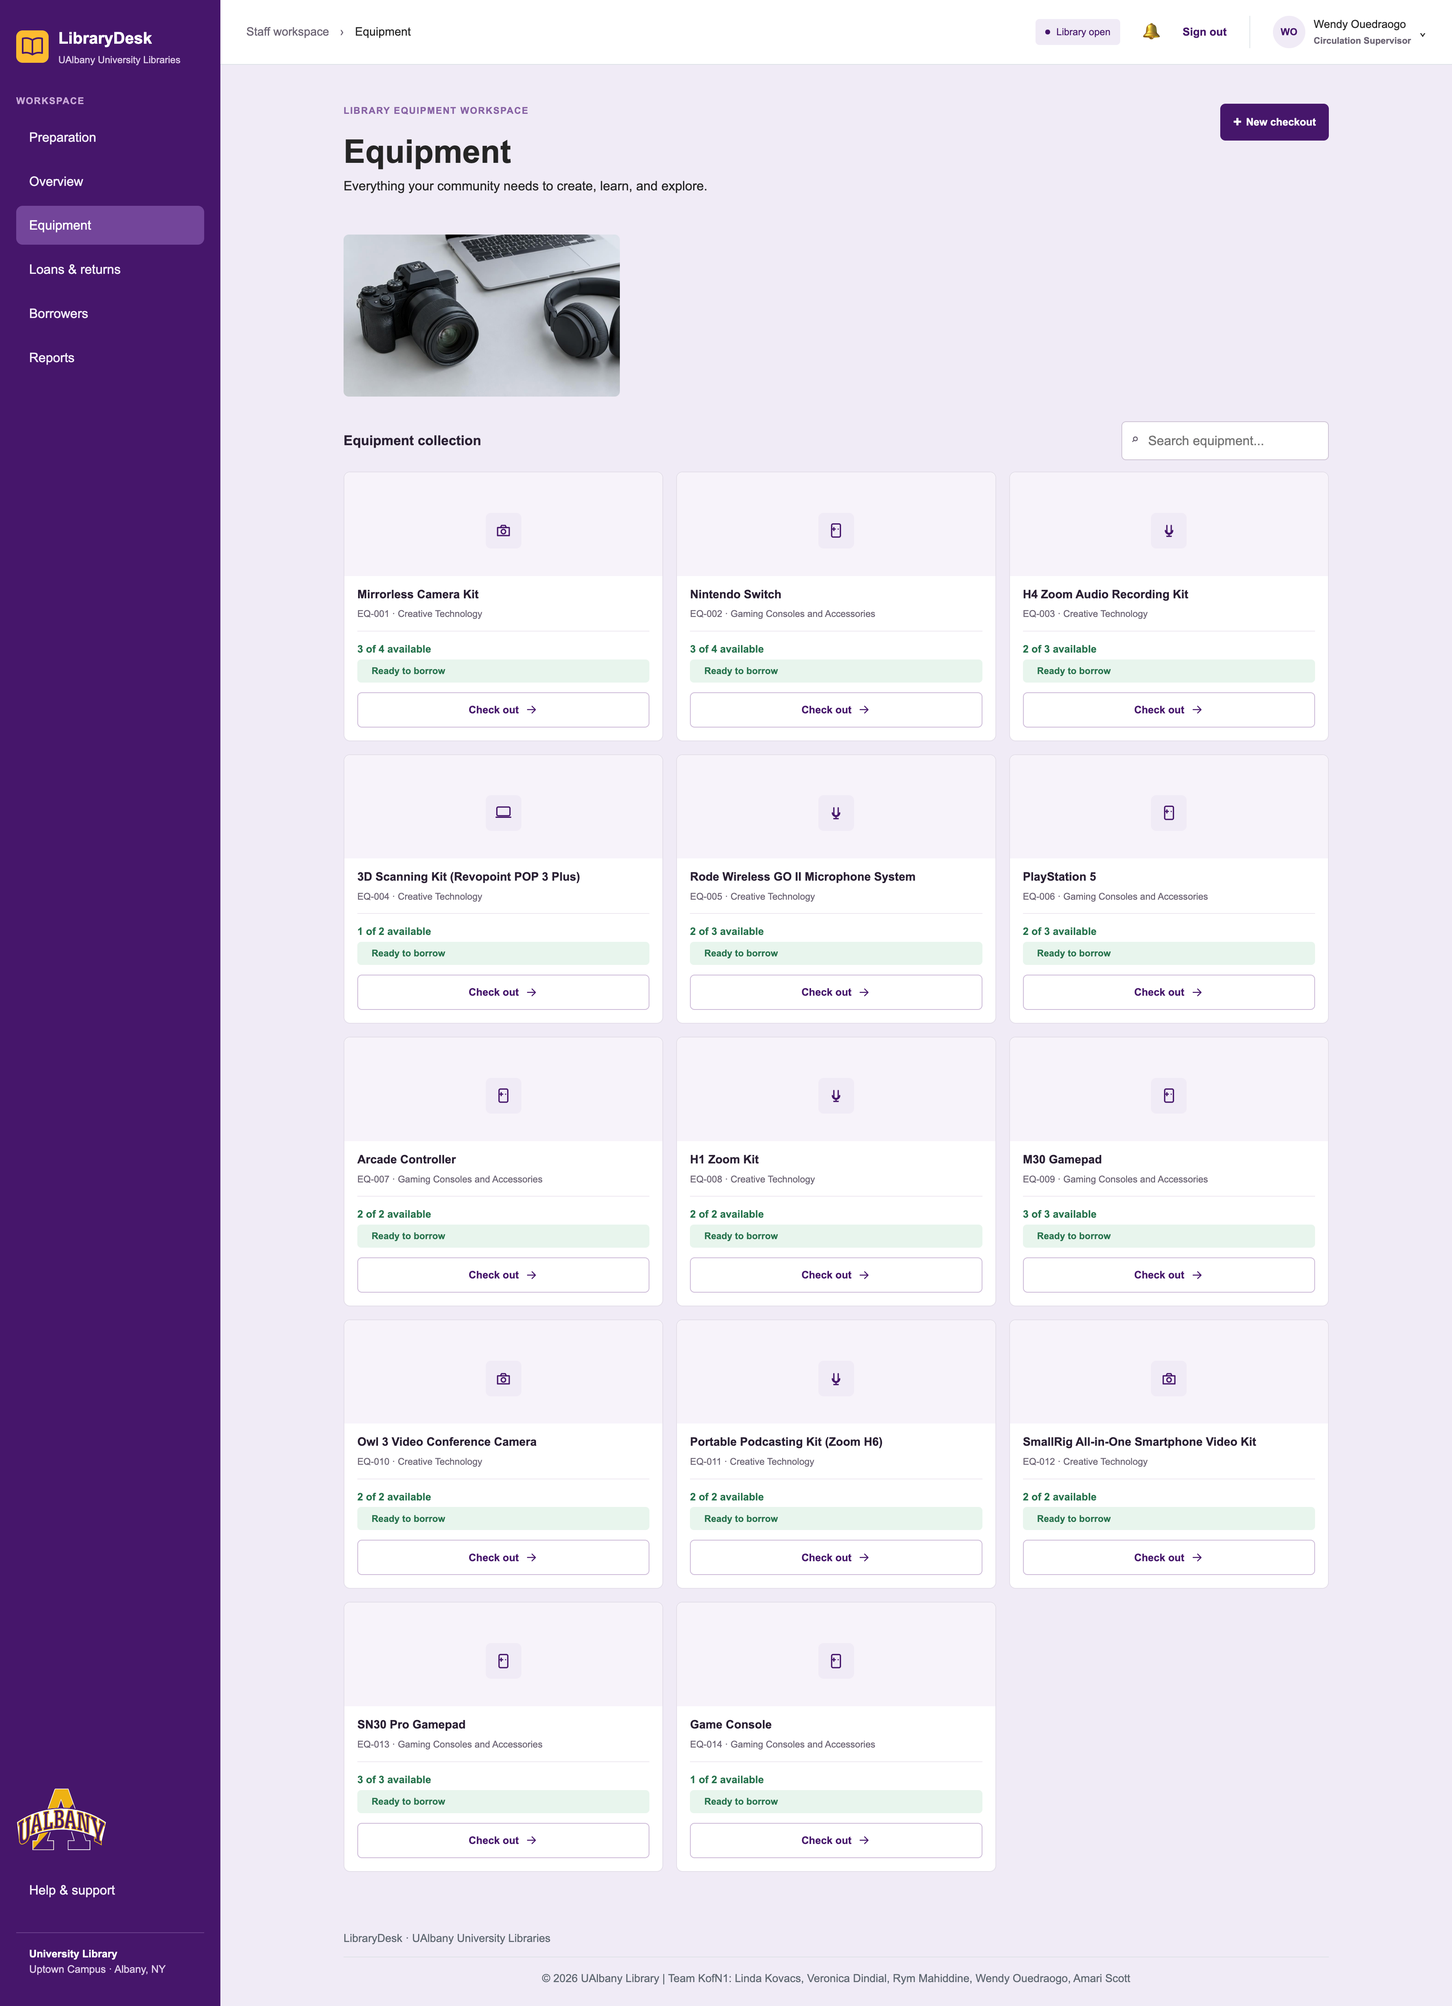
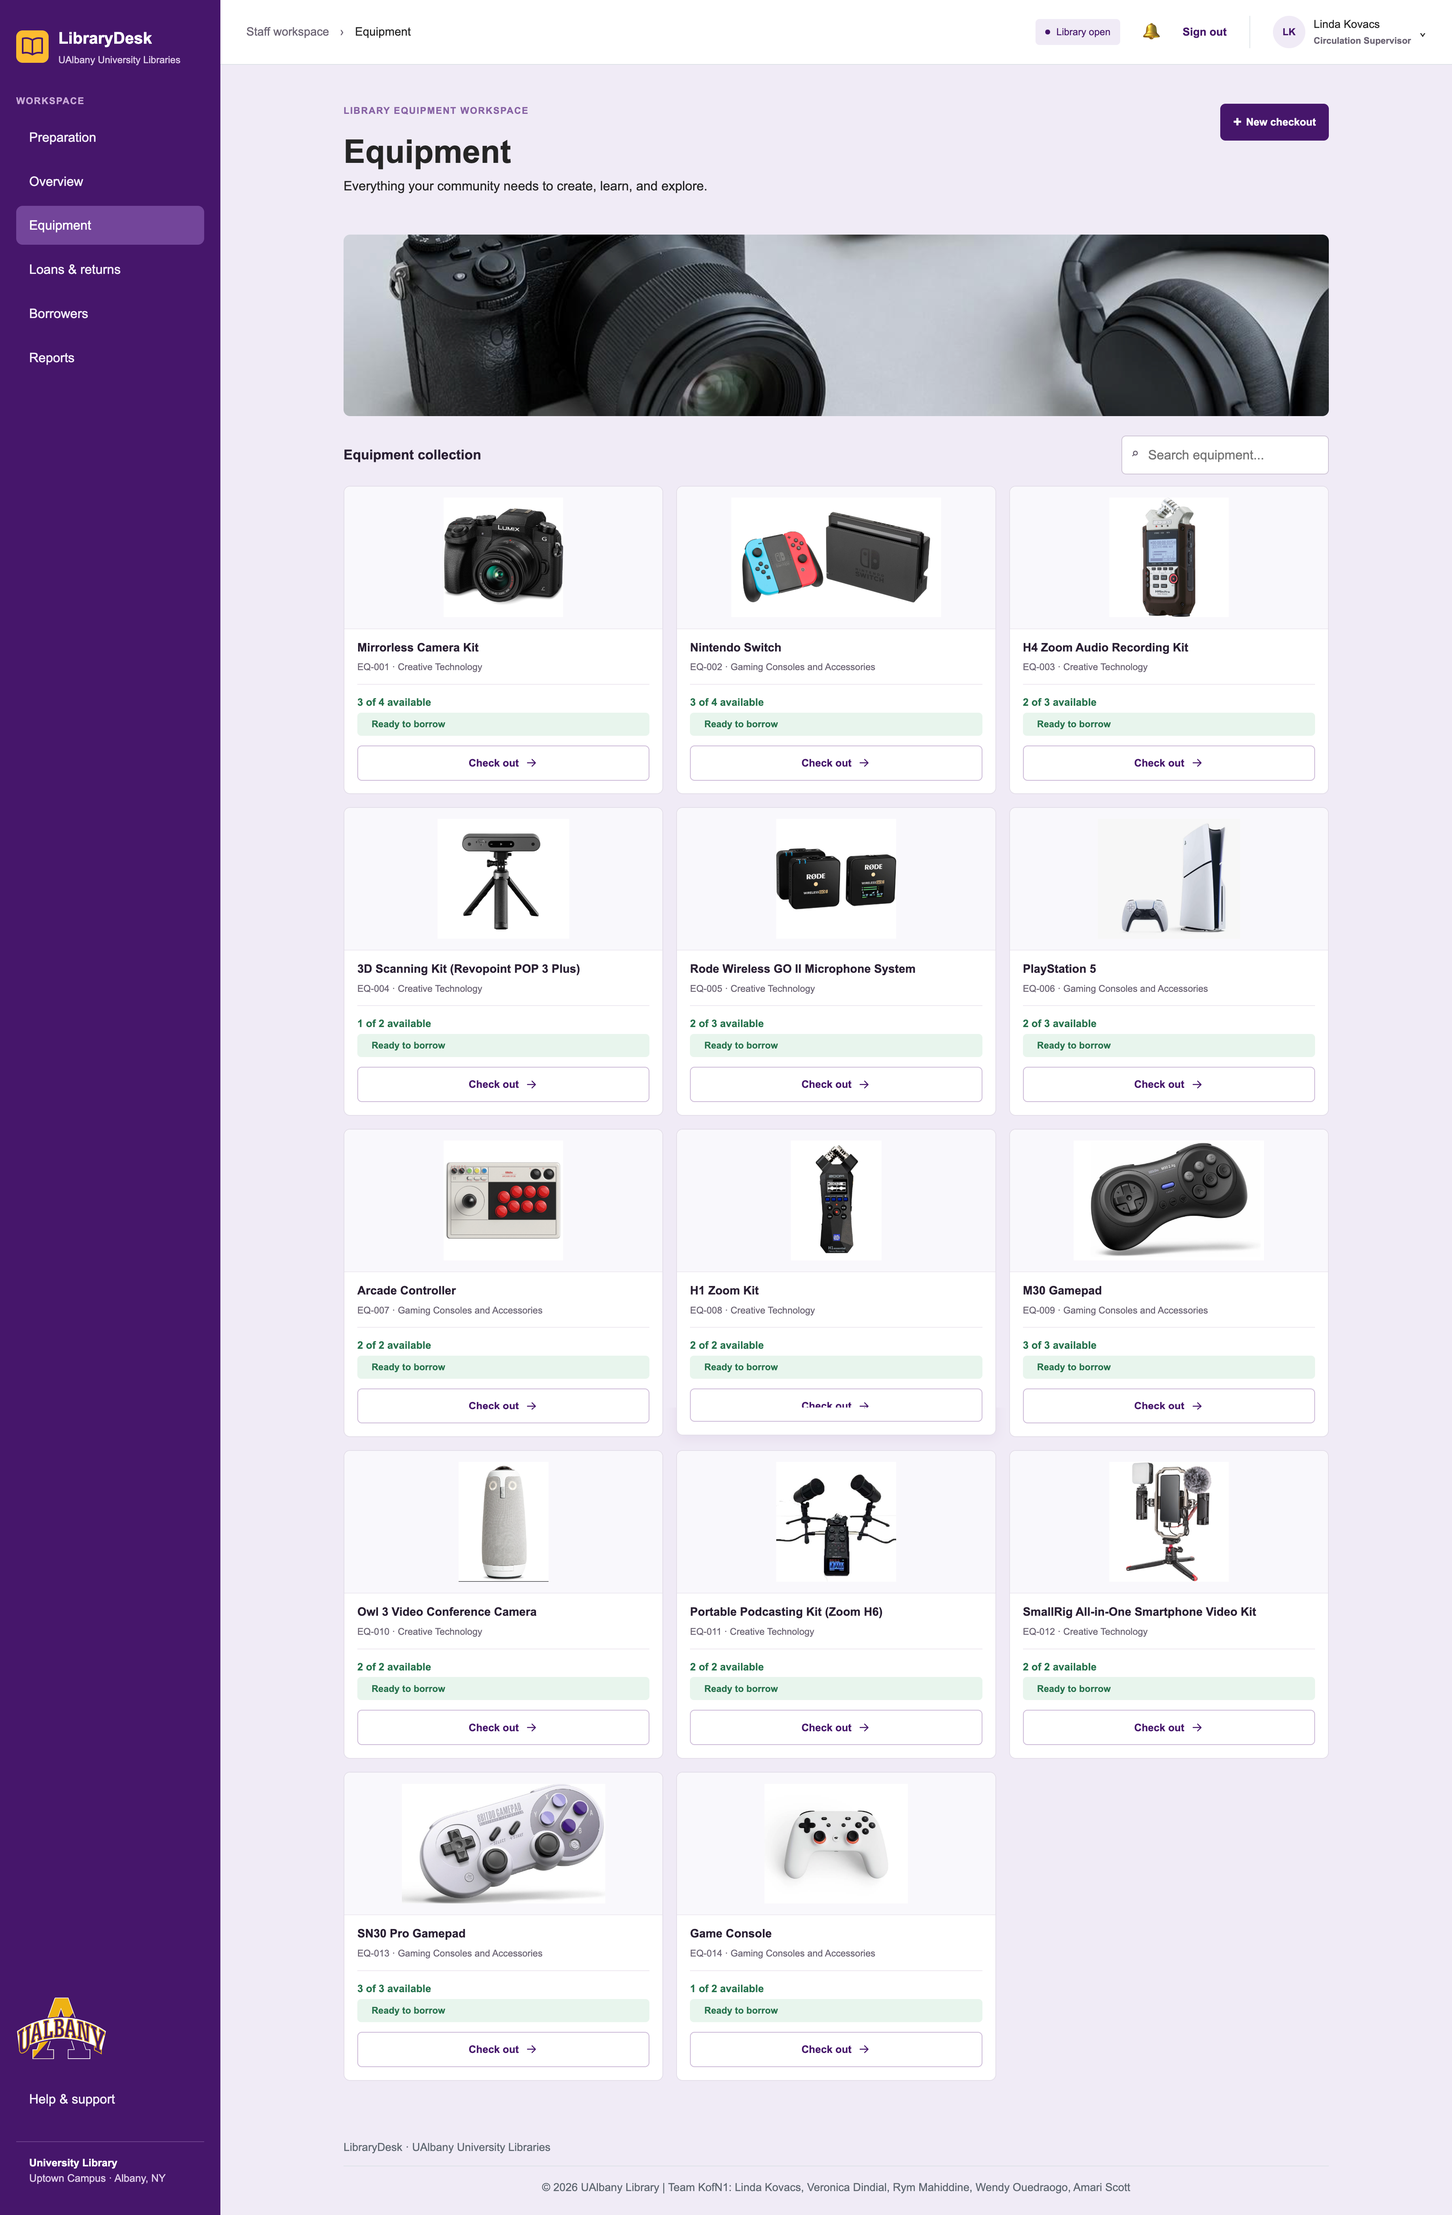
feat(notifications): add reserved tab to notifications and document restricted reports

diff --git a/api-client.js b/api-client.js
@@ -2806,21 +2806,44 @@
     const isNotifications = window.location.pathname.includes('notifications');
     if (!isNotifications) return;
     try {
-      const [kpiRes, overdueRes, dueRes, prepRes] = await Promise.all([
+      const [kpiRes, overdueRes, dueRes, reservedRes, prepRes] = await Promise.all([
         apiClient.getSummaryKPIs().catch(() => null),
         apiClient.getLoans({ status: 'overdue' }).catch(() => null),
         apiClient.getLoans({ status: 'due-today' }).catch(() => null),
+        apiClient.getLoans({ status: 'reserved' }).catch(() => null),
         apiClient.getPreparation({ status: 'awaiting' }).catch(() => null)
       ]);
 
       const overdueLoans = (overdueRes && overdueRes.loans) || [];
       const dueLoans = (dueRes && dueRes.loans) || [];
+      const reservedLoans = (reservedRes && reservedRes.loans) || [];
       const prepItems = (prepRes && prepRes.preparation) || [];
-      const totalAlerts = overdueLoans.length + dueLoans.length + prepItems.length;
+      const totalAlerts = overdueLoans.length + dueLoans.length + reservedLoans.length + prepItems.length;
+
+      // Update section heading subtext
+      const headingP = document.querySelector('.dashboard-section .section-heading p');
+      if (headingP) {
+        headingP.textContent = `${totalAlerts} item${totalAlerts === 1 ? '' : 's'} needing attention`;
+      }
 
       // Update tab counter badges
       const tabs = document.querySelectorAll('.tabs .tab-link');
-      if (tabs.length >= 4) {
+      if (tabs.length >= 5) {
+        const allBadge = tabs[0].querySelector('span');
+        if (allBadge) allBadge.textContent = totalAlerts;
+
+        const overdueBadge = tabs[1].querySelector('span');
+        if (overdueBadge) overdueBadge.textContent = overdueLoans.length;
+
+        const dueBadge = tabs[2].querySelector('span');
+        if (dueBadge) dueBadge.textContent = dueLoans.length;
+
+        const reservedBadge = tabs[3].querySelector('span');
+        if (reservedBadge) reservedBadge.textContent = reservedLoans.length;
+
+        const prepBadge = tabs[4].querySelector('span');
+        if (prepBadge) prepBadge.textContent = prepItems.length;
+      } else if (tabs.length >= 4) {
         const allBadge = tabs[0].querySelector('span');
         if (allBadge) allBadge.textContent = totalAlerts;
 
@@ -2836,7 +2859,7 @@
 
       // Populate notifications list dynamically from live database records
       const listContainer = document.querySelector('.notifications-list');
-      if (listContainer && (overdueLoans.length > 0 || dueLoans.length > 0 || prepItems.length > 0)) {
+      if (listContainer && (overdueLoans.length > 0 || dueLoans.length > 0 || reservedLoans.length > 0 || prepItems.length > 0)) {
         listContainer.innerHTML = '';
 
         // Overdue alerts
@@ -2895,6 +2918,35 @@
           listContainer.appendChild(card);
         });
 
+        // Reserved alerts
+        reservedLoans.forEach(loan => {
+          const card = document.createElement('article');
+          card.className = 'alert-card';
+          card.dataset.category = 'reserved';
+          card.style.cssText = 'display: flex; justify-content: space-between; align-items: center; padding: 1.25rem; background: #fff; border: 1px solid #bae6fd; border-left: 4px solid #0284c7; border-radius: 0.5rem; gap: 1rem';
+          const resDate = loan.reservedDate ? formatShortEST(loan.reservedDate) : 'Claimed for future pickup';
+          card.innerHTML = `
+            <div style="display: flex; gap: 1rem; align-items: flex-start">
+              <span style="display: grid; width: 2.25rem; height: 2.25rem; place-items: center; background: #e0f2fe; color: #0284c7; border-radius: 50%; font-weight: bold; flex-shrink: 0">&#128197;</span>
+              <div>
+                <div style="display: flex; align-items: center; gap: 0.5rem; margin-bottom: 0.25rem">
+                  <strong style="color: #252525; font-size: 0.95rem">Reserved hold: ${escapeHtml(loan.borrowerName || loan.borrower || 'Patron')}</strong>
+                  <span class="loan-status reserved">Reserved</span>
+                </div>
+                <p style="margin: 0 0 0.35rem; color: #5f6872; font-size: 0.85rem">
+                  ${escapeHtml(loan.equipmentName || loan.equipmentId)} (${escapeHtml(loan.equipmentId)}) is claimed for patron pickup. University ID: ${escapeHtml(loan.universityId || loan.borrowerNetId || loan.netid || '—')}.
+                </p>
+                <small style="color: #8c8295; font-size: 0.75rem">Reserved date: ${escapeHtml(resDate)}</small>
+              </div>
+            </div>
+            <div style="display: flex; gap: 0.5rem; flex-shrink: 0">
+              <a class="primary-action" href="loan-details.html?id=${encodeURIComponent(loan.id)}" style="padding: 0.45rem 0.85rem; font-size: 0.8rem">View reservation</a>
+              <a class="secondary-action" href="loans-reserved.html" style="padding: 0.45rem 0.85rem; font-size: 0.8rem">Reserved queue</a>
+            </div>
+          `;
+          listContainer.appendChild(card);
+        });
+
         // Awaiting preparation alerts
         prepItems.forEach(item => {
           const card = document.createElement('article');
@@ -2922,6 +2974,16 @@
           `;
           listContainer.appendChild(card);
         });
+
+        // Reapply active tab filter if not 'all'
+        const activeTab = document.querySelector('.tabs .tab-link.active-tab');
+        if (activeTab && typeof filterAlerts === 'function') {
+          const onclickAttr = activeTab.getAttribute('onclick') || '';
+          const match = onclickAttr.match(/filterAlerts\('([^']+)'/);
+          if (match && match[1] && match[1] !== 'all') {
+            filterAlerts(match[1], activeTab);
+          }
+        }
       }
     } catch (e) {
       // Gracefully preserve static HTML content as fallback

diff --git a/notifications.html b/notifications.html
@@ -36,7 +36,7 @@
             <div class="section-heading">
               <div>
                 <h2 id="alerts-list-heading">Active alerts</h2>
-                <p>5 items needing attention</p>
+                <p>6 items needing attention</p>
               </div>
               <button
                 type="button"
@@ -49,13 +49,16 @@
 
             <div class="tabs" role="tablist" style="padding: 0 1.25rem 0.5rem; display: flex; gap: 0.5rem; border-bottom: 1px solid #e8e1ed">
               <button class="tab-link active-tab" type="button" style="background: none; border: 0; font: inherit; cursor: pointer" onclick="filterAlerts('all', this)">
-                All alerts <span>5</span>
+                All alerts <span>6</span>
               </button>
               <button class="tab-link" type="button" style="background: none; border: 0; font: inherit; cursor: pointer" onclick="filterAlerts('overdue', this)">
                 Overdue <span>1</span>
               </button>
               <button class="tab-link" type="button" style="background: none; border: 0; font: inherit; cursor: pointer" onclick="filterAlerts('due', this)">
                 Due today <span>2</span>
+              </button>
+              <button class="tab-link" type="button" style="background: none; border: 0; font: inherit; cursor: pointer" onclick="filterAlerts('reserved', this)">
+                Reserved <span>1</span>
               </button>
               <button class="tab-link" type="button" style="background: none; border: 0; font: inherit; cursor: pointer" onclick="filterAlerts('prep', this)">
                 Preparation <span>2</span>
@@ -138,7 +141,32 @@
                 </div>
               </article>
 
-              <!-- Alert 4: Preparation review -->
+              <!-- Alert 4: Reserved hold -->
+              <article class="alert-card" data-category="reserved" style="display: flex; justify-content: space-between; align-items: center; padding: 1.25rem; background: #fff; border: 1px solid #bae6fd; border-left: 4px solid #0284c7; border-radius: 0.5rem; gap: 1rem">
+                <div style="display: flex; gap: 1rem; align-items: flex-start">
+                  <span style="display: grid; width: 2.25rem; height: 2.25rem; place-items: center; background: #e0f2fe; color: #0284c7; border-radius: 50%; font-weight: bold; flex-shrink: 0">&#128197;</span>
+                  <div>
+                    <div style="display: flex; align-items: center; gap: 0.5rem; margin-bottom: 0.25rem">
+                      <strong style="color: #252525; font-size: 0.95rem">Reserved hold: Noah Thompson</strong>
+                      <span class="loan-status reserved">Reserved</span>
+                    </div>
+                    <p style="margin: 0 0 0.35rem; color: #5f6872; font-size: 0.85rem">
+                      3D Scanning Kit (Revopoint POP 3 Plus) (EQ-004) is claimed for patron pickup. University ID: 001583902.
+                    </p>
+                    <small style="color: #8c8295; font-size: 0.75rem">Reserved date: Oct 14, 2026, 9:00 AM EST</small>
+                  </div>
+                </div>
+                <div style="display: flex; gap: 0.5rem; flex-shrink: 0">
+                  <a class="primary-action" href="loan-details.html?id=LN-1039" style="padding: 0.45rem 0.85rem; font-size: 0.8rem">
+                    View reservation
+                  </a>
+                  <a class="secondary-action" href="loans-reserved.html" style="padding: 0.45rem 0.85rem; font-size: 0.8rem">
+                    Reserved queue
+                  </a>
+                </div>
+              </article>
+
+              <!-- Alert 5: Preparation review -->
               <article class="alert-card" data-category="prep" style="display: flex; justify-content: space-between; align-items: center; padding: 1.25rem; background: #fff; border: 1px solid #d8cfe0; border-left: 4px solid #46166b; border-radius: 0.5rem; gap: 1rem">
                 <div style="display: flex; gap: 1rem; align-items: flex-start">
                   <span style="display: grid; width: 2.25rem; height: 2.25rem; place-items: center; background: #f1ebf6; color: #46166b; border-radius: 50%; font-weight: bold; flex-shrink: 0">&#10003;</span>

diff --git a/instructions/user-manual.md b/instructions/user-manual.md
@@ -27,6 +27,8 @@
 10. [Standard Operating Procedure 6: Equipment Preparation & Inspection Pipeline](#10-sop-6-equipment-preparation--inspection-pipeline)
 11. [Standard Operating Procedure 7: Borrower Directory & Patron Lookup](#11-sop-7-borrower-directory--patron-lookup)
 12. [Standard Operating Procedure 8: Circulation Reports & Analytics](#12-sop-8-circulation-reports--analytics)
+    - [12.1 Supervisor View: Full Reports & Analytics Generation](#121-supervisor-view-full-reports--analytics-generation)
+    - [12.2 Specialist View: Restricted Access & Role Enforcement](#122-specialist-view-restricted-access--role-enforcement)
 13. [Standard Operating Procedure 9: Notifications & Alert Center](#13-sop-9-notifications--alert-center)
 14. [Architecture: Dynamic Population with Offline Fallback](#14-architecture-dynamic-population-with-offline-fallback)
 15. [Known System Limitations & Operational Boundaries](#15-known-system-limitations--operational-boundaries)
@@ -494,9 +496,15 @@ Items fully certified, inspected, and ready to be placed on library shelves:
 **File:** `reports.html`  
 **When to Use:** Preparing monthly circulation summaries, equipment utilization reviews, and semester audits.
 
+---
+
+### 12.1 Supervisor View: Full Reports & Analytics Generation
+
+Circulation Supervisors have administrative privileges to configure, run, review, and export comprehensive equipment circulation reports.
+
 ![Circulation Reports and Equipment Utilization Analytics](../assets/screenshots/reports.png)
 
-### Step-by-Step Instructions:
+#### Step-by-Step Instructions:
 1. Click **Reports** in the navigation sidebar.
 2. Configure report parameters:
    - **Semester Selector:** Choose *Summer 2026*, *Fall 2026*, *Spring 2026*, or *Full Academic Year*.
@@ -512,6 +520,43 @@ Items fully certified, inspected, and ready to be placed on library shelves:
 
 ---
 
+### 12.2 Specialist View: Restricted Access & Role Enforcement
+
+When staff members signed in with the **Circulation Specialist** role (e.g., `linda.kovacs.spec`, `veronica.dindial.spec`) navigate to `reports.html`, the system enforces automated role-based access restrictions to protect institutional analytics and prevent unauthorized report generation.
+
+![Restricted Reports View for Circulation Specialists](../assets/screenshots/reports-restricted.png)
+
+#### Visual Indicators & System Behaviors:
+
+1. **Access Restriction Banner (`#reports-role-restriction`):**
+   - Appears prominently at the top of the page above the report configuration controls.
+   - Features a high-visibility alert banner (`#fdf2f2` background with `#f8b4b4` border) displaying the lock icon (`🔒`) and header **Supervisor Access Required**.
+   - Identifies the signed-in user and current role:
+     > *"Administrative circulation reports and utilization statistics are reserved for **Circulation Supervisors**. You are currently signed in as **[Staff Name]** (Circulation Specialist)."*
+   - Provides an inline hyperlink directly to the login portal: *"To generate or view institutional reports, sign in with a Supervisor account (e.g. Linda Kovacs)."*
+
+2. **Locked Form Controls:**
+   - All input controls within `#report-form` are programmatically disabled (`disabled = true`) and dimmed to 60% opacity to prevent form submission:
+     - **Semester Selector** dropdown is disabled.
+     - **From** and **To** date pickers are disabled.
+     - **Search equipment** text input is disabled.
+     - **Run report** button is disabled.
+     - **Export CSV** button is disabled.
+   - The **Report Summary Totals** card is dimmed to indicate that metrics cannot be calculated.
+
+3. **Protected Data Table:**
+   - The report data table (`#report-rows`) does not render any checkout or equipment utilization rows.
+   - Instead, the table body displays a centered warning:
+     > `🔒 Access Restricted: Circulation reports are reserved for Circulation Supervisors.`
+
+4. **Account Elevation Procedure:**
+   - If a Circulation Specialist requires access to circulation metrics or semester audit reports:
+     1. Click the **sign in with a Supervisor account** link in the restriction banner or select **Sign out** from the staff user menu.
+     2. Authenticate at `/login.html` using a Circulation Supervisor account (e.g., NetID: `linda.kovacs`, `veronica.dindial`, `rym.mahiddine`, `wendy.ouedraogo`, `amari.scott`, `abby.adams`).
+     3. Once authenticated as a Supervisor, re-open `reports.html`. All form controls, search filters, reporting metrics, and CSV export functionality will be fully accessible.
+
+---
+
 ## 13. SOP 9: Notifications & Alert Center
 
 **File:** `notifications.html`  
@@ -521,11 +566,13 @@ Items fully certified, inspected, and ready to be placed on library shelves:
 
 ### Step-by-Step Instructions:
 1. Click **Notifications** in the sidebar.
-2. Review alerts categorized by priority:
-   - 🔴 **High Priority:** Loans 3+ days overdue requiring phone outreach or bursar hold.
-   - 🟡 **Medium Priority:** Loans due before today's 10:00 PM closing.
-   - 🟣 **Review Alerts:** Equipment waiting in supervisor review queue for >24 hours.
-3. Click the action button on any notification card to jump directly to the relevant loan record or equipment task.
+2. Review alerts categorized by priority tabs:
+   - 🔴 **Overdue:** Loans 3+ days overdue requiring phone outreach or bursar hold.
+   - 🟡 **Due today:** Loans due before today's 10:00 PM closing.
+   - 🔵 **Reserved:** Equipment reserved by patrons awaiting front-desk pickup.
+   - 🟣 **Preparation:** Equipment waiting in preparation or supervisor review queues.
+3. Click the filter tabs (**All alerts**, **Overdue**, **Due today**, **Reserved**, **Preparation**) to narrow down the active alert list.
+4. Click the action button on any notification card to jump directly to the relevant loan record, reservation details, or equipment preparation task.
 
 ---
 
